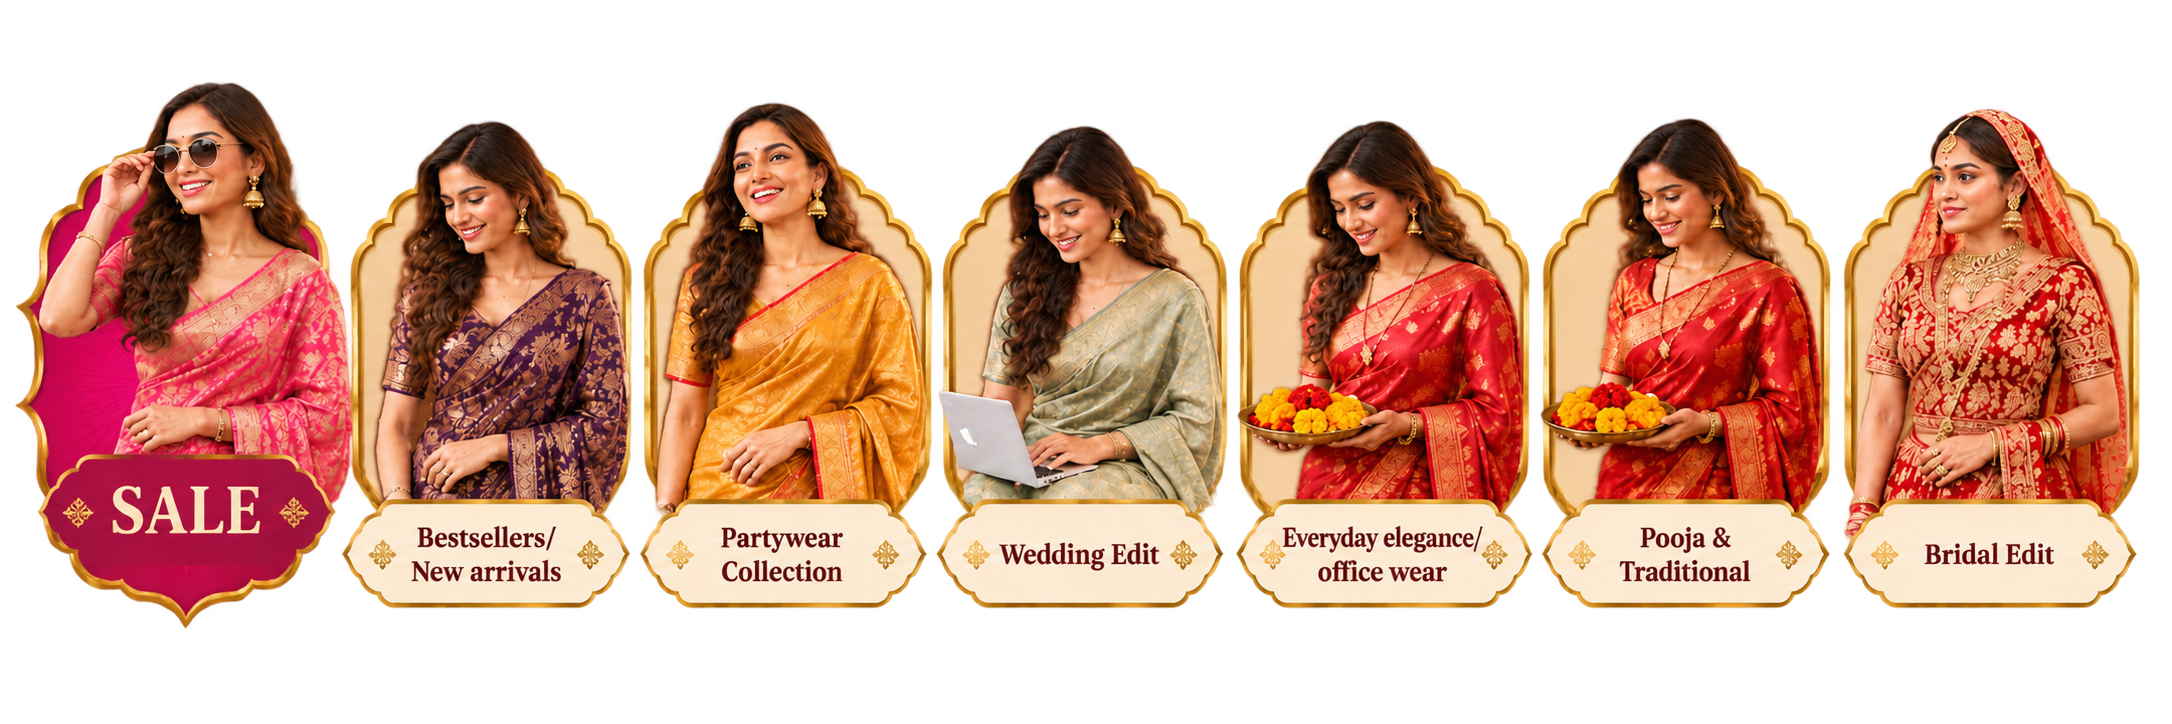
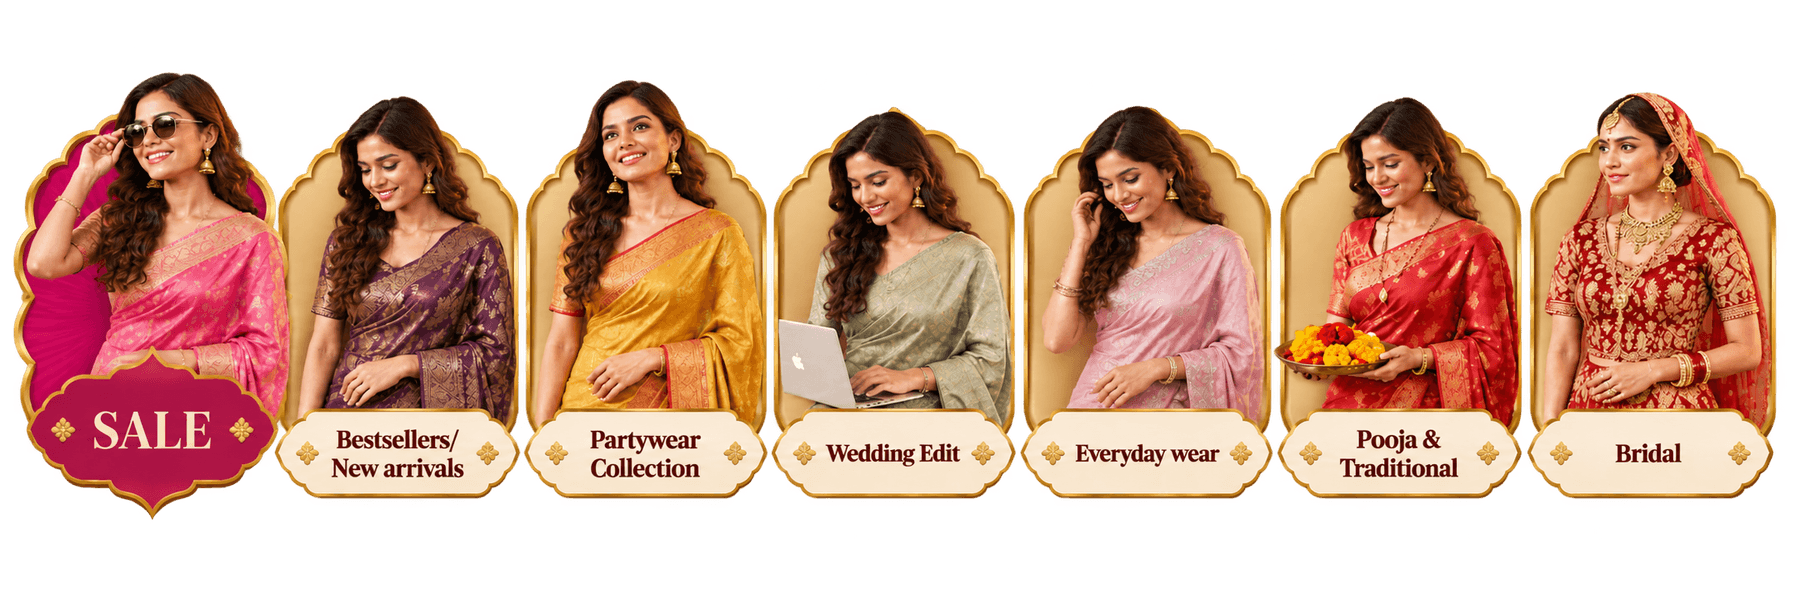
chore: update SAREES homepage collage with new image (optimised png+webp, cache-bust v3)

diff --git a/frontend/src/components/home/TopCategories.jsx b/frontend/src/components/home/TopCategories.jsx
@@ -17,7 +17,7 @@ export default function TopCategories() {
       <div className="container-ambika overflow-x-auto scrollbar-hide">
         <div className="relative min-w-[850px] sm:min-w-0">
           <img
-            src="/images/banner-sarees-collection.png?v=2"
+            src="/images/banner-sarees-collection.png?v=3"
             alt="Sarees — Timeless Elegance, Just For You"
             className="w-full h-auto object-contain block drop-shadow-xs"
           />
